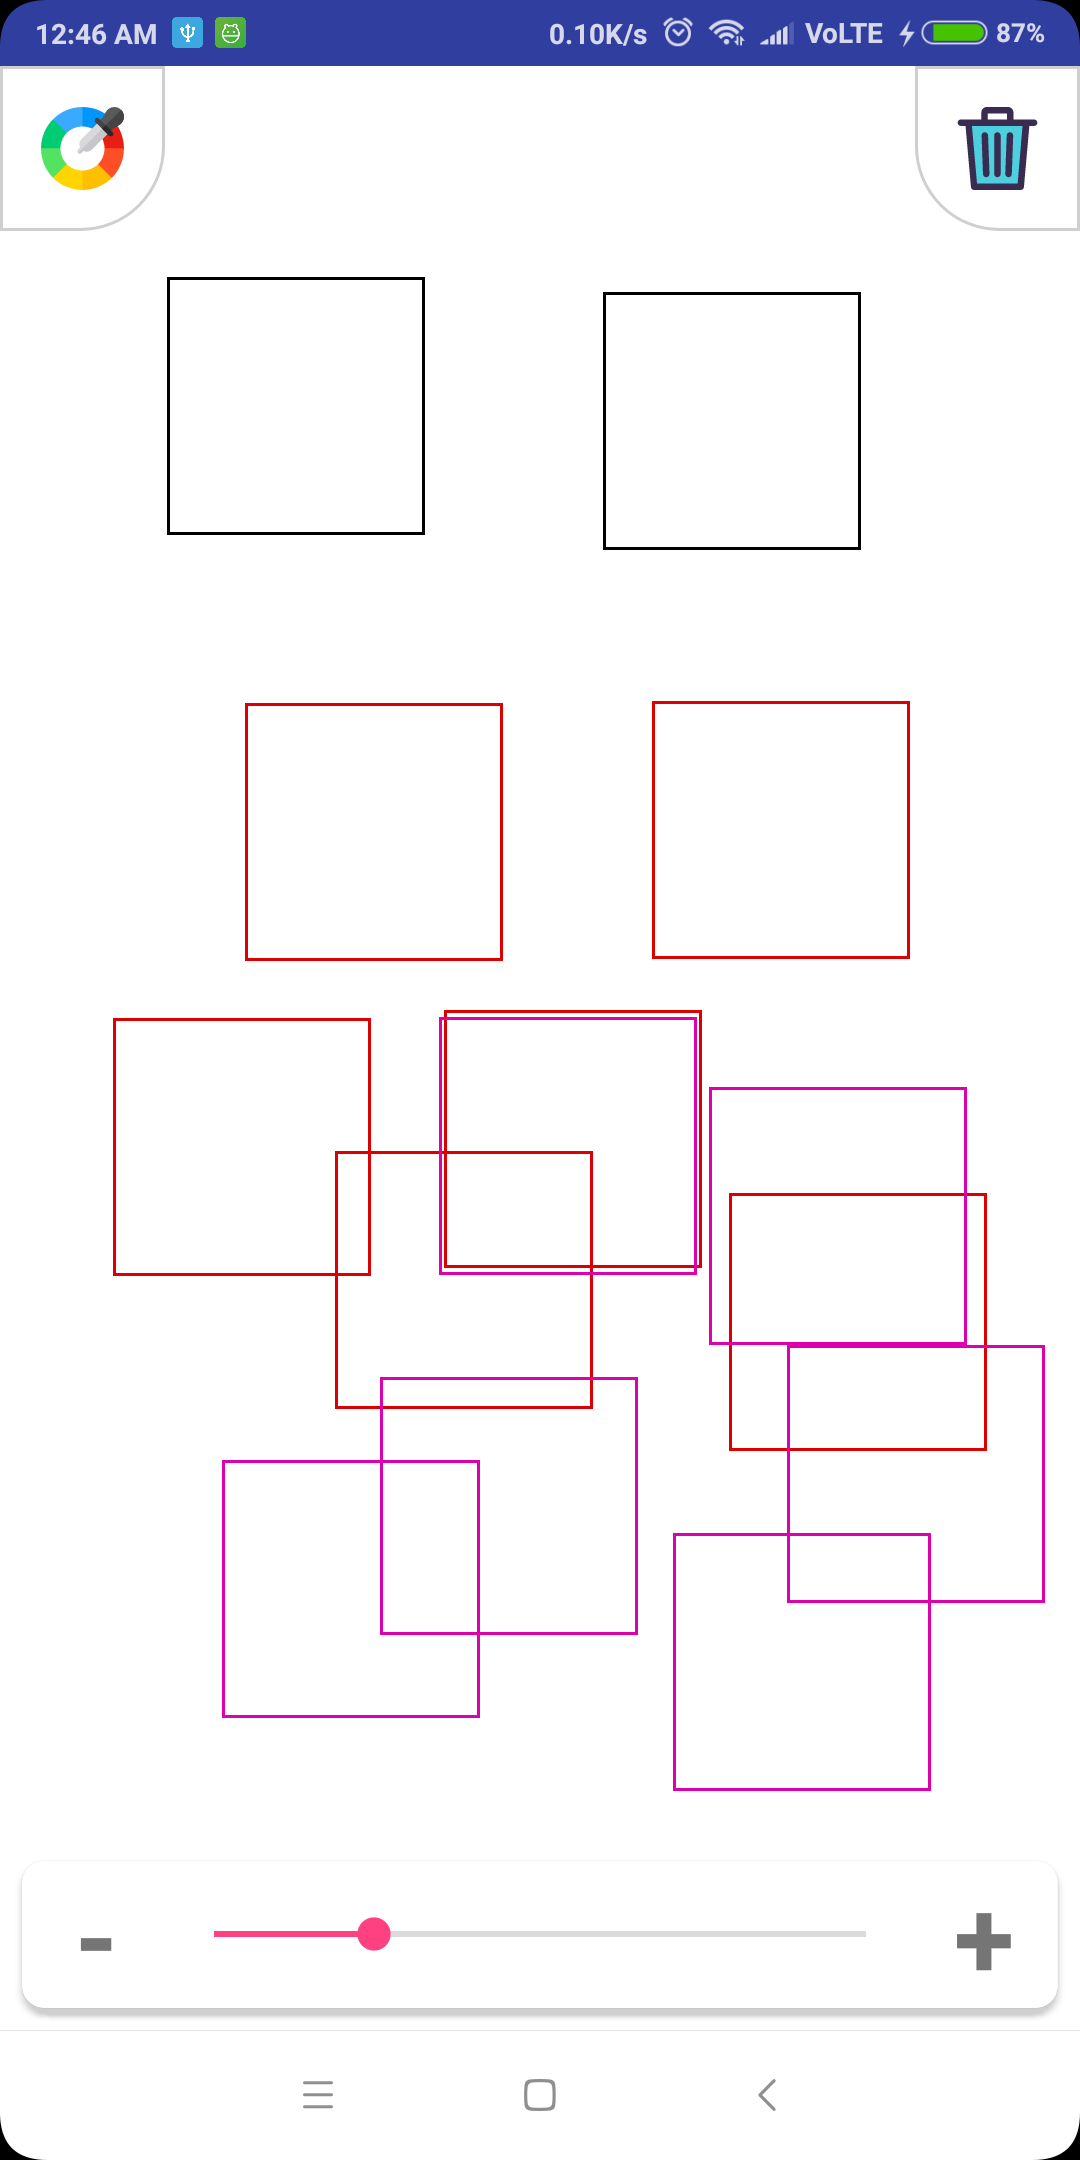
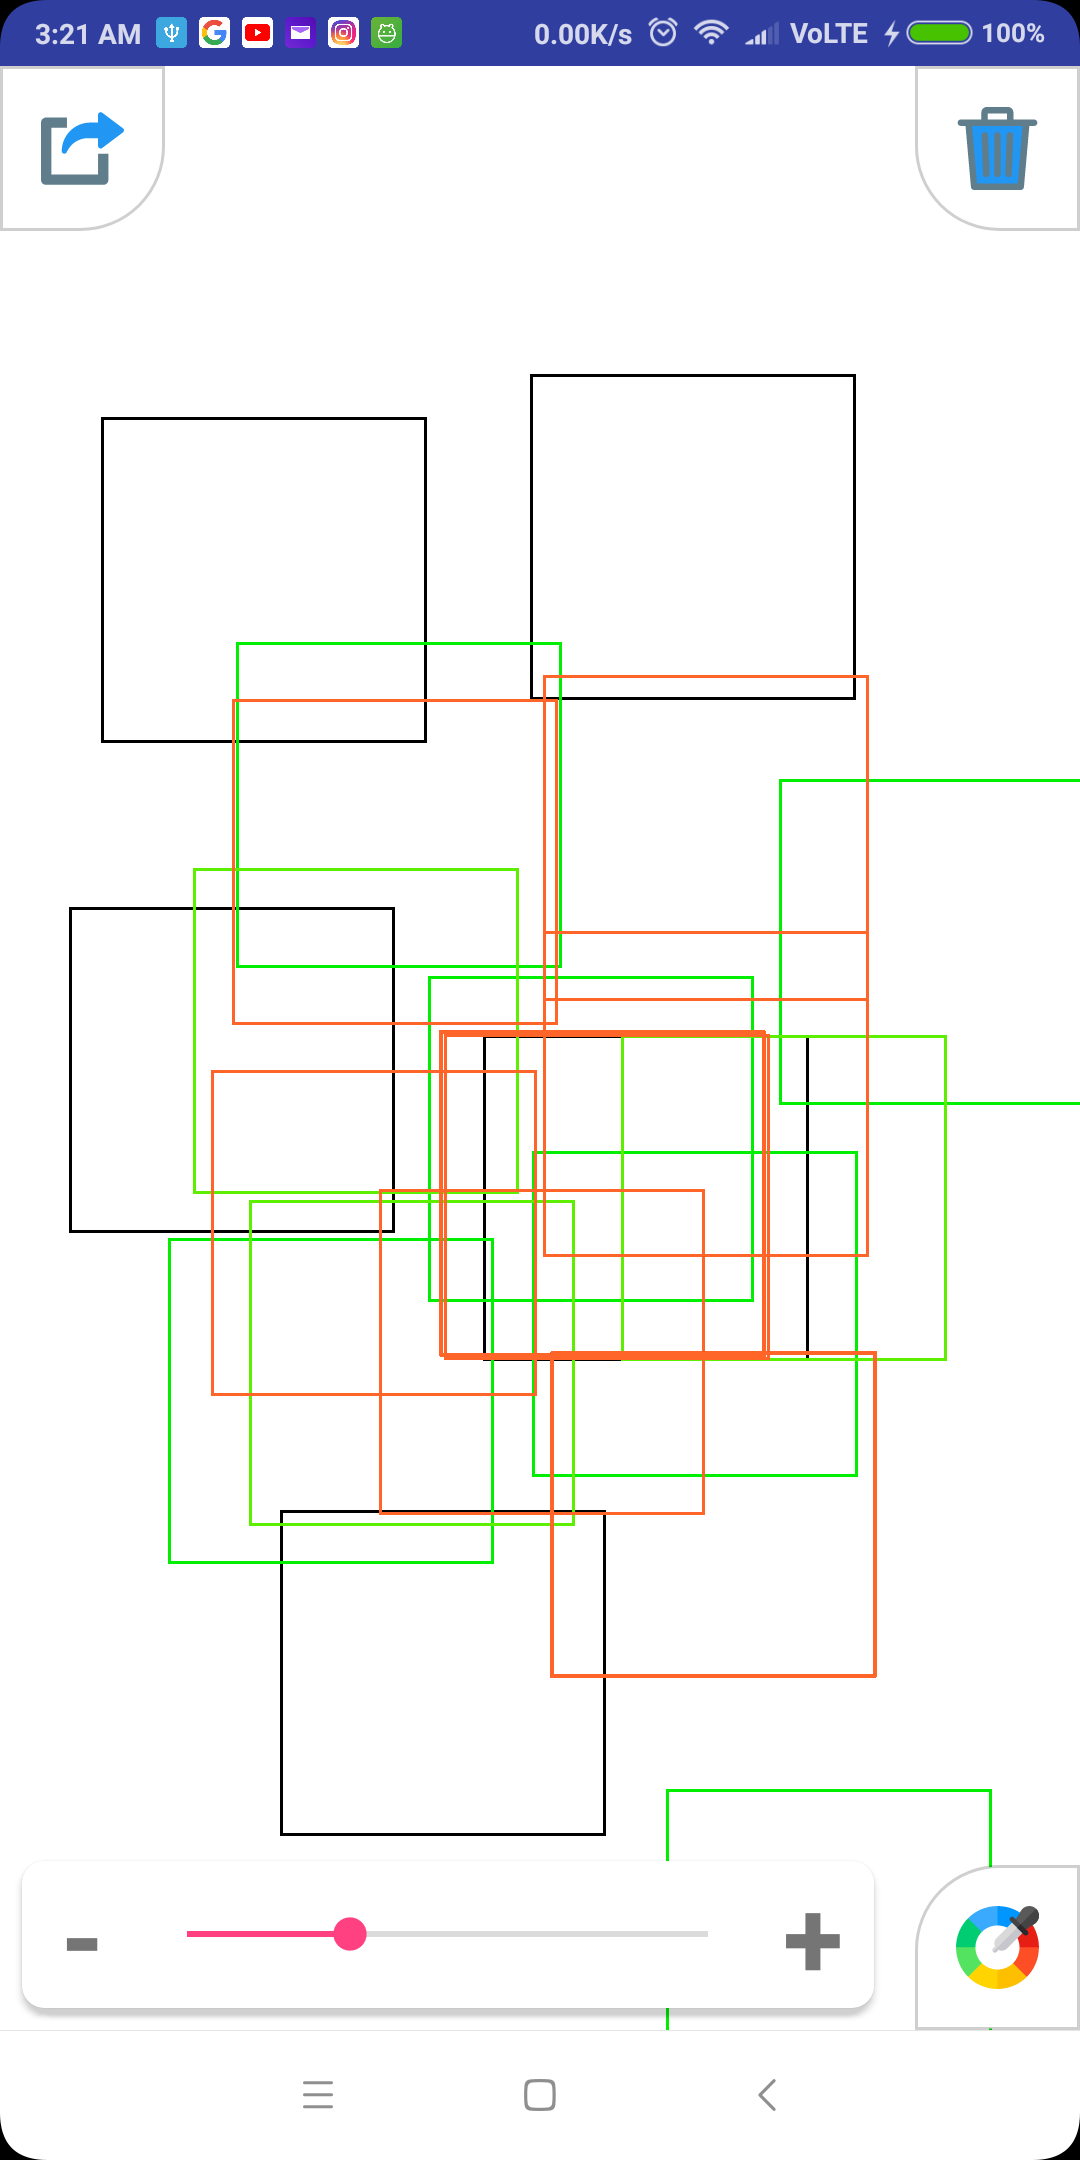
added export feature and updated screenshots

diff --git a/app/src/main/java/draw/blazon/com/simpledrawingapp/activities/DrawingActivity.java b/app/src/main/java/draw/blazon/com/simpledrawingapp/activities/DrawingActivity.java
@@ -1,21 +1,36 @@
 package draw.blazon.com.simpledrawingapp.activities;
 
+import android.Manifest;
+import android.content.Context;
 import android.os.Bundle;
+import android.os.Environment;
 import android.support.annotation.NonNull;
 import android.support.v7.app.AppCompatActivity;
 import android.support.v7.widget.AppCompatSeekBar;
+import android.util.Log;
 import android.widget.ImageView;
 import android.widget.SeekBar;
+import android.widget.Toast;
 
 import com.afollestad.materialdialogs.DialogAction;
 import com.afollestad.materialdialogs.MaterialDialog;
+import com.gun0912.tedpermission.PermissionListener;
+import com.gun0912.tedpermission.TedPermission;
 import com.pes.androidmaterialcolorpickerdialog.ColorPicker;
 import com.pes.androidmaterialcolorpickerdialog.ColorPickerCallback;
+
+import java.io.File;
+import java.io.FileWriter;
+import java.io.IOException;
+import java.util.ArrayList;
+import java.util.logging.Logger;
 
 import butterknife.BindView;
 import butterknife.ButterKnife;
 import butterknife.OnClick;
 import draw.blazon.com.simpledrawingapp.R;
+import draw.blazon.com.simpledrawingapp.models.ExportModel;
+import draw.blazon.com.simpledrawingapp.models.SquareItem;
 import draw.blazon.com.simpledrawingapp.views.DrawingView;
 
 public class DrawingActivity extends AppCompatActivity {
@@ -30,6 +45,8 @@ public class DrawingActivity extends AppCompatActivity {
     ImageView ivColorPicker;
     @BindView(R.id.iv_delete)
     ImageView ivDelete;
+    @BindView(R.id.iv_export)
+    ImageView ivExport;
     private ColorPicker mColorPicker;
 
     @Override
@@ -97,5 +114,59 @@ public class DrawingActivity extends AppCompatActivity {
                 })
                 .negativeText(R.string.disagree)
                 .show();
+    }
+
+    @OnClick(R.id.iv_export)
+    public void onExportClicked() {
+        checkPermissions();
+
+    }
+
+    private void checkPermissions() {
+        TedPermission.with(this)
+                .setPermissionListener(permissionlistener)
+                .setDeniedMessage("If you reject permission, you can not use this service\n\nPlease turn on permissions at [Setting] > [Permission]")
+                .setPermissions(Manifest.permission.READ_EXTERNAL_STORAGE, Manifest.permission.WRITE_EXTERNAL_STORAGE)
+                .check();
+    }
+
+    PermissionListener permissionlistener = new PermissionListener() {
+        @Override
+        public void onPermissionGranted() {
+            if (drawingView.getSquareItems() != null && drawingView.getSquareItems().size() > 0) {
+                writeStringAsFile(mapSquareToExport(drawingView.getSquareItems()), "SquareCoordinates.txt");
+            } else {
+                Toast.makeText(DrawingActivity.this, "No Squares found.", Toast.LENGTH_SHORT).show();
+            }
+        }
+
+        @Override
+        public void onPermissionDenied(ArrayList<String> deniedPermissions) {
+            Toast.makeText(DrawingActivity.this, "Permission Denied\n" +
+                    deniedPermissions.toString(), Toast.LENGTH_SHORT).show();
+        }
+
+    };
+
+    private String mapSquareToExport(ArrayList<SquareItem> squareItems) {
+        ArrayList<ExportModel> exportModels = new ArrayList<>();
+        for (SquareItem squareItem : squareItems) {
+            exportModels.add(new ExportModel(squareItem.getCoordinates()));
+        }
+        return exportModels.toString();
+    }
+
+    public void writeStringAsFile(final String fileContents, String fileName) {
+        Context context = this.getApplicationContext();
+        try {
+            FileWriter out = new FileWriter(new File(Environment.getExternalStorageDirectory().getAbsolutePath(), fileName));
+            out.write(fileContents);
+            out.close();
+            Toast.makeText(context, "File has been exported to " + Environment.getExternalStorageDirectory().getAbsolutePath()
+                    + "/" + fileName, Toast.LENGTH_SHORT).show();
+        } catch (IOException e) {
+            Log.e(TAG, e.getMessage());
+            Toast.makeText(context, "Something went wrong.", Toast.LENGTH_SHORT).show();
+        }
     }
 }

diff --git a/app/src/main/java/draw/blazon/com/simpledrawingapp/models/SquareItem.java b/app/src/main/java/draw/blazon/com/simpledrawingapp/models/SquareItem.java
@@ -2,6 +2,9 @@ package draw.blazon.com.simpledrawingapp.models;
 
 import android.graphics.Point;
 
+import java.util.ArrayList;
+import java.util.List;
+
 public class SquareItem {
     private Point mPoint;
     private float mSize;
@@ -36,4 +39,19 @@ public class SquareItem {
     public void setColor(int mColor) {
         this.mColor = mColor;
     }
+
+    @Override
+    public String toString() {
+        return super.toString();
+    }
+
+    public List<Coordinate> getCoordinates() {
+        ArrayList<Coordinate> coordinates = new ArrayList<>();
+        coordinates.add(new Coordinate(Math.round(getPoint().x - getSize()/2) , Math.round(getPoint().y - getSize()/2))); //top left
+        coordinates.add(new Coordinate(Math.round(getPoint().x - getSize()/2) , Math.round(getPoint().y + getSize()/2))); //bottom left
+        coordinates.add(new Coordinate(Math.round(getPoint().x + getSize()/2) , Math.round(getPoint().y + getSize()/2))); //top right
+        coordinates.add(new Coordinate(Math.round(getPoint().x + getSize()/2) , Math.round(getPoint().y - getSize()/2))); //bottom right
+        return coordinates;
+    }
+
 }

diff --git a/app/src/main/java/draw/blazon/com/simpledrawingapp/models/ExportModel.java b/app/src/main/java/draw/blazon/com/simpledrawingapp/models/ExportModel.java
@@ -1,0 +1,17 @@
+package draw.blazon.com.simpledrawingapp.models;
+
+import java.util.List;
+
+public class ExportModel {
+    private List<Coordinate> coordinateList;
+
+    public ExportModel(List<Coordinate> coordinateList) {
+        this.coordinateList = coordinateList;
+    }
+
+    @Override
+    public String toString() {
+        return "{coordinates: " + coordinateList.toString() + "}";
+    }
+
+}

diff --git a/app/src/main/java/draw/blazon/com/simpledrawingapp/models/Coordinate.java b/app/src/main/java/draw/blazon/com/simpledrawingapp/models/Coordinate.java
@@ -1,0 +1,15 @@
+package draw.blazon.com.simpledrawingapp.models;
+
+class Coordinate {
+    private int x, y;
+
+    public Coordinate(int x, int y) {
+        this.x = x;
+        this.y = y;
+    }
+
+    @Override
+    public String toString() {
+        return " (" + x + "," + y + ")";
+    }
+}

diff --git a/app/src/main/java/draw/blazon/com/simpledrawingapp/views/DrawingView.java b/app/src/main/java/draw/blazon/com/simpledrawingapp/views/DrawingView.java
@@ -91,4 +91,9 @@ public class DrawingView extends View {
         mSquareItems = new ArrayList<>();
         postInvalidate();
     }
+
+    public ArrayList<SquareItem> getSquareItems() {
+        return mSquareItems;
+    }
+
 }
